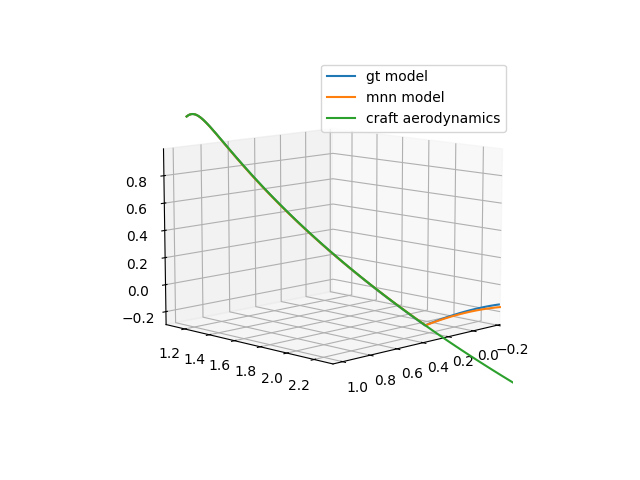
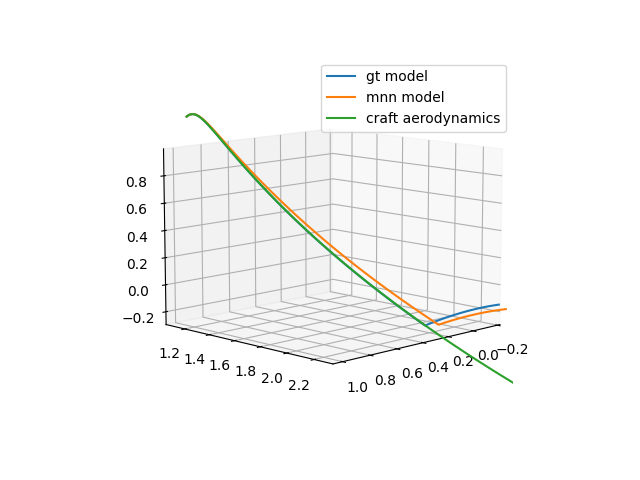
add more layer

diff --git a/lfg/model_traj/mnn.py b/lfg/model_traj/mnn.py
@@ -121,11 +121,15 @@ class BounceModel(nn.Module):
             nn.Linear(hidden_size, hidden_size),
             nn.LeakyReLU()
         )
+        self.layer3 = nn.Sequential(
+            nn.Linear(hidden_size, hidden_size),
+            nn.LeakyReLU()
+        )
 
         self.dec = nn.Sequential(
-            nn.Linear(hidden_size, hidden_size),
+            nn.Linear(hidden_size, 128),
             nn.LeakyReLU(),
-            nn.Linear(hidden_size, 6)
+            nn.Linear(128, 6)
         )
         
     def forward(self, v, w):
@@ -138,6 +142,7 @@ class BounceModel(nn.Module):
 
         v = v.reshape(batch_size, 3)
         w = w.reshape(batch_size, 3)
+        # if self.recode:
         w = self.recode(w)
 
         R2d, v2d_local, w2d_local = gram_schmidth_2d(v[...,:2], w[...,:2])     
@@ -152,6 +157,7 @@ class BounceModel(nn.Module):
         x = torch.cat([v_normalize, w_normalize], dim=-1)
         x = self.layer1(x)
         x = x + self.layer2(x)*x
+        x = x + self.layer3(x)*x
         x = self.dec(x)
 
         # unnormalize
@@ -181,6 +187,7 @@ class AeroModel(nn.Module):
         #     nn.ReLU(),
         #     nn.Linear(32, 3)
         #     )
+        self.is_recode = True
         self.recode = nn.Linear(3,3)
 
         self.layer1 = nn.Sequential(
@@ -191,11 +198,15 @@ class AeroModel(nn.Module):
             nn.Linear(hidden_size, hidden_size),
             nn.LeakyReLU()
         )
+        self.layer3 = nn.Sequential(
+            nn.Linear(hidden_size, hidden_size),
+            nn.LeakyReLU()
+        )
 
         self.dec = nn.Sequential(
-            nn.Linear(hidden_size, hidden_size),
+            nn.Linear(hidden_size, 128),
             nn.LeakyReLU(),
-            nn.Linear(hidden_size, 3)
+            nn.Linear(128, 3)
         )
 
         
@@ -223,7 +234,7 @@ class AeroModel(nn.Module):
 
         feat = torch.cat([v_local[...,:1], w_local[...,:2]], dim=-1)
         h = self.layer1(feat)
-        h  = self.layer2(h)*h
+        h  = self.layer2(h)*h + h
 
         y = self.dec(h)
         y =torch.matmul(R, y.unsqueeze(-1)).squeeze(-1)       

diff --git a/tests/test_basic/aero.py b/tests/test_basic/aero.py
@@ -170,6 +170,7 @@ class TestModel5(nn.Module):
         #     nn.ReLU(),
         #     nn.Linear(32, 3)
         #     )
+        self.is_recode = True
         self.recode = nn.Linear(3,3)
 
         self.layer1 = nn.Sequential(
@@ -180,11 +181,15 @@ class TestModel5(nn.Module):
             nn.Linear(hidden_size, hidden_size),
             nn.LeakyReLU()
         )
+        # self.layer3 = nn.Sequential(
+        #     nn.Linear(hidden_size, hidden_size),
+        #     nn.LeakyReLU()
+        # )
 
         self.dec = nn.Sequential(
-            nn.Linear(hidden_size, hidden_size),
+            nn.Linear(hidden_size, 128),
             nn.LeakyReLU(),
-            nn.Linear(hidden_size, 3)
+            nn.Linear(128, 3)
         )
 
         
@@ -197,13 +202,16 @@ class TestModel5(nn.Module):
     def forward(self, v, w, dt):
         v_normalize = v 
         w_normalize = w
-        w_normalize = self.recode(w_normalize)
+        if self.is_recode:
+            w_normalize = self.recode(w_normalize)
 
         R, v_local, w_local = gram_schmidth(v_normalize, w_normalize)     
 
         feat = torch.cat([v_local[...,:1], w_local[...,:2]], dim=-1)
-        h = self.layer1(feat)
-        h  = self.layer2(h)*h
+        h0 = self.layer1(feat)
+        # h  = self.layer2(h0)*h0  # old
+        h  = self.layer2(h0)*h0 + h0
+        # h = self.layer3(h0)*h + h0
 
         y = self.dec(h)
         y =torch.matmul(R, y.unsqueeze(-1)).squeeze(-1)       
@@ -315,9 +323,9 @@ def train_loop(task='train'):
                 #     if param.grad is not None:
                 #         print(f"Gradient of {name}: \n{param.grad}")
 
-                for name, param in model.named_parameters():
-                    if 'dec' in name:
-                        print(f"New data of {name}: \n{param.data}")    
+                # for name, param in model.named_parameters():
+                #     if 'dec' in name:
+                #         print(f"New data of {name}: \n{param.data}")    
                     # print(f"New data of {name}: \n{param.data}")
 
                 if i % 1 == 0:

diff --git a/tests/test_basic/bounce.py b/tests/test_basic/bounce.py
@@ -159,7 +159,8 @@ class TestModel3(nn.Module):
         #     nn.ReLU(),
         #     nn.Linear(32, 3)
         #     )
-        # self.recode = nn.Linear(3,3)
+        self.is_recode = True
+        self.recode = nn.Linear(3,3)
 
         self.layer1 = nn.Sequential(
             nn.Linear(6, hidden_size),
@@ -169,16 +170,20 @@ class TestModel3(nn.Module):
             nn.Linear(hidden_size, hidden_size),
             nn.LeakyReLU()
         )
+        self.layer3 = nn.Sequential(
+            nn.Linear(hidden_size, hidden_size),
+            nn.LeakyReLU()
+        )
 
         self.dec = nn.Sequential(
-            nn.Linear(hidden_size, hidden_size),
+            nn.Linear(hidden_size, 128),
             nn.LeakyReLU(),
-            nn.Linear(hidden_size, 6)
+            nn.Linear(128, 6)
         )
         
     def forward(self, v, w):
-        
-        # w = self.recode(w)
+        if self.is_recode:
+            w = self.recode(w)
         R2d, v2d_local, w2d_local = gram_schmidth_2d(v[...,:2], w[...,:2])     
         # x = torch.cat([v2d_local[...,:2], v_normalize[...,2:], w2d_local,  w_normalize[...,2:]], dim=-1)
 
@@ -191,9 +196,10 @@ class TestModel3(nn.Module):
         v_normalize = v_local / 3.0
         w_normalize = w_local / (30.0*np.pi*2)
 
-        x = torch.cat([v_normalize, w_normalize], dim=-1)
-        x = self.layer1(x)
-        x = x + self.layer2(x)*x
+        x0 = torch.cat([v_normalize, w_normalize], dim=-1)
+        x = self.layer1(x0)
+        x = self.layer2(x)*x + x
+        x = self.layer3(x)*x + x # add one more layer
         x = self.dec(x)
 
         
@@ -243,7 +249,7 @@ def test_bounce_training():
     model = TestModel3()
     model = model.to('cuda')
     # model.load_state_dict(torch.load('bounce_model.pth'))
-    optimizer = torch.optim.Adam(model.parameters(), lr=1e-4)
+    optimizer = torch.optim.Adam(model.parameters(), lr=1e-3)
 
     dataset = MyDataset(v_N, w_N, v_new_N, w_new_N)
     dataloader = torch.utils.data.DataLoader(dataset, batch_size=32, shuffle=True)
